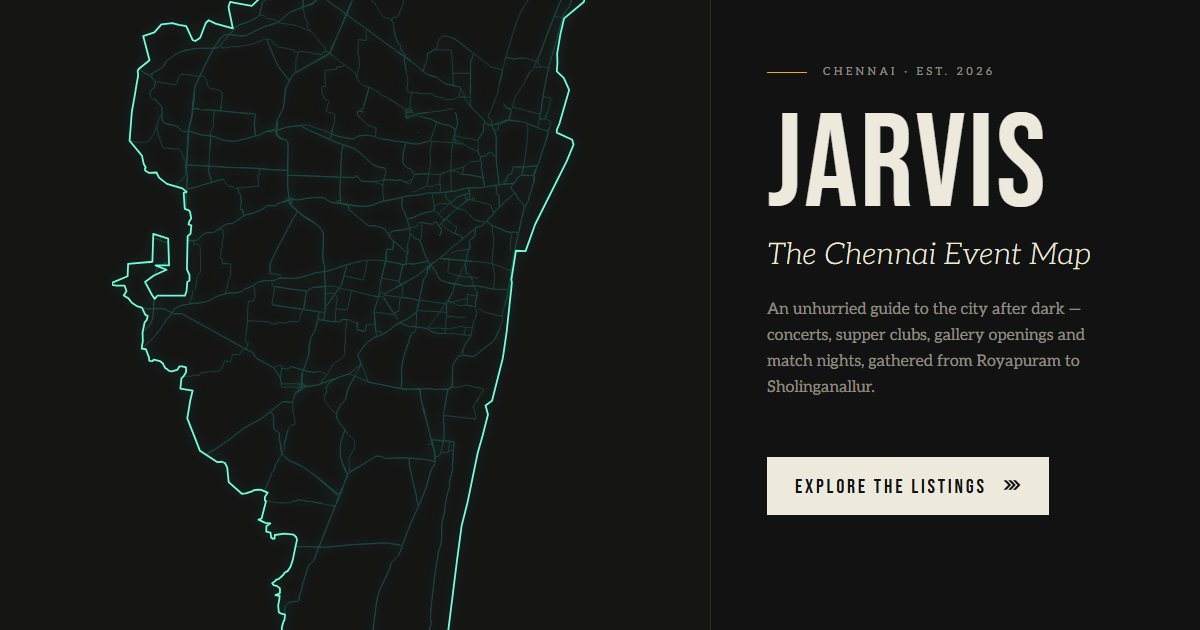
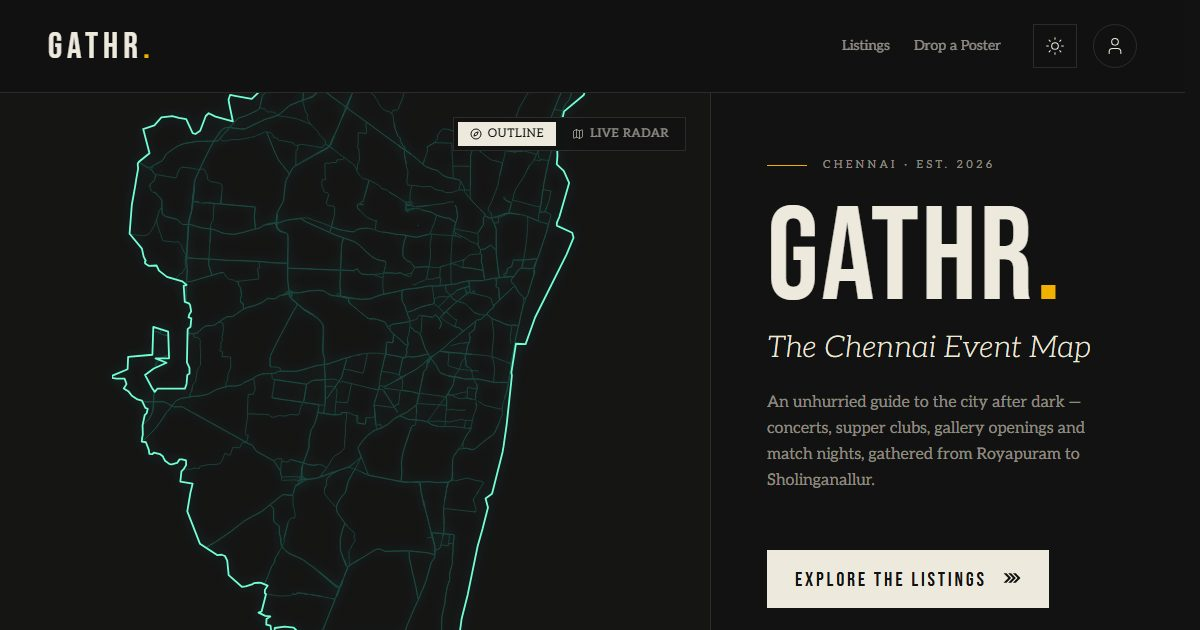
Rename the site from Jarvis to Gathr

diff --git a/frontend/index.html b/frontend/index.html
@@ -10,25 +10,25 @@
 
     <!-- Link previews (WhatsApp, Instagram, X, LinkedIn, Slack) -->
     <meta property="og:type" content="website" />
-    <meta property="og:site_name" content="Jarvis · Chennai Event Map" />
+    <meta property="og:site_name" content="Gathr · Chennai Event Map" />
     <meta property="og:locale" content="en_IN" />
     <meta property="og:url" content="https://chennai-events-map.vercel.app/" />
     <meta property="og:title" content="Chennai Event Map: concerts, workshops & meetups this week" />
     <meta property="og:description" content="Every gig, meetup, workshop and screening in Chennai on one live map. Drop a poster to add yours." />
-    <meta property="og:image" content="https://chennai-events-map.vercel.app/og-image.jpg" />
+    <meta property="og:image" content="https://chennai-events-map.vercel.app/og-image.jpg?v=2" />
     <meta property="og:image:width" content="1200" />
     <meta property="og:image:height" content="630" />
-    <meta property="og:image:alt" content="Map of Chennai with the Jarvis event map title" />
+    <meta property="og:image:alt" content="Map of Chennai with the Gathr event map title" />
     <meta name="twitter:card" content="summary_large_image" />
     <meta name="twitter:title" content="Chennai Event Map: concerts, workshops & meetups this week" />
     <meta name="twitter:description" content="Every gig, meetup, workshop and screening in Chennai on one live map." />
-    <meta name="twitter:image" content="https://chennai-events-map.vercel.app/og-image.jpg" />
+    <meta name="twitter:image" content="https://chennai-events-map.vercel.app/og-image.jpg?v=2" />
 
     <script type="application/ld+json">
       {
         "@context": "https://schema.org",
         "@type": "WebSite",
-        "name": "Jarvis · Chennai Event Map",
+        "name": "Gathr · Chennai Event Map",
         "alternateName": "Chennai Event Map",
         "url": "https://chennai-events-map.vercel.app/",
         "description": "A live map of concerts, workshops, meetups and other events in Chennai."
@@ -44,7 +44,7 @@
     <link rel="preconnect" href="https://fonts.googleapis.com" />
     <link rel="preconnect" href="https://fonts.gstatic.com" crossorigin />
     <link href="https://fonts.googleapis.com/css2?family=Aleo:ital,wght@0,300..700;1,300..700&family=Bebas+Neue&display=swap" rel="stylesheet">
-    <title>Chennai Event Map: concerts, workshops & meetups | Jarvis</title>
+    <title>Chennai Event Map: concerts, workshops & meetups | Gathr</title>
   </head>
   <body>
     <div id="root"></div>

diff --git a/frontend/src/components/GlobalHeader.jsx b/frontend/src/components/GlobalHeader.jsx
@@ -10,13 +10,13 @@ export default function GlobalHeader({ theme, onToggleTheme }) {
     <header className="sticky top-0 z-40 border-b border-line bg-ivory/90 backdrop-blur-md transition-colors duration-200 dark:bg-ink/90">
       <nav className="mx-auto flex w-full items-center justify-between px-4 py-3 sm:px-6 sm:py-6 lg:px-12 xl:px-16 2xl:px-24">
         {isLanding ? (
-          <span className="pt-1 font-display text-3xl sm:text-4xl leading-none tracking-[0.14em]">JARVIS</span>
+          <span className="pt-1 font-display text-3xl sm:text-4xl leading-none tracking-[0.14em]">GATHR<span className="text-yellow-600 dark:text-yellow-500">.</span></span>
         ) : (
           <Link
             to="/"
             className="pt-1 font-display text-3xl sm:text-4xl leading-none tracking-[0.14em] cursor-pointer hover:text-teal-700 dark:hover:text-teal-400 transition-colors"
           >
-            JARVIS
+            GATHR<span className="text-yellow-600 dark:text-yellow-500">.</span>
           </Link>
         )}
 

diff --git a/frontend/src/lib/seo.js b/frontend/src/lib/seo.js
@@ -4,8 +4,8 @@ import { useEffect } from 'react';
 // JavaScript, so tags set here are what it indexes. (WhatsApp and other link
 // previews don't, so they always get the defaults in index.html.)
 export const SITE_URL = 'https://chennai-events-map.vercel.app';
-export const SITE_NAME = 'Jarvis';
-export const DEFAULT_TITLE = 'Chennai Event Map: concerts, workshops & meetups | Jarvis';
+export const SITE_NAME = 'Gathr';
+export const DEFAULT_TITLE = 'Chennai Event Map: concerts, workshops & meetups | Gathr';
 export const DEFAULT_DESCRIPTION =
   "Find what's on in Chennai this week: concerts, gigs, tech meetups, workshops, college culturals and screenings, all on one live map. Free to browse, and anyone can add an event by dropping its poster.";
 

diff --git a/frontend/src/views/SubmitPosterView.jsx b/frontend/src/views/SubmitPosterView.jsx
@@ -186,7 +186,7 @@ export default function SubmitPosterView() {
           Drop a Poster
         </h1>
         <p className="mt-4 max-w-2xl text-lg italic text-muted">
-          Just drop the poster, that's all we need. Jarvis reads the date, venue and the rest off it, and once a quick review is done it's pinned on the Chennai map.
+          Just drop the poster, that's all we need. Gathr reads the date, venue and the rest off it, and once a quick review is done it's pinned on the Chennai map.
         </p>
 
         <div className="mt-14 grid grid-cols-1 gap-12 lg:grid-cols-12">

diff --git a/frontend/src/views/LandingView.jsx b/frontend/src/views/LandingView.jsx
@@ -129,7 +129,7 @@ export default function LandingView({ theme, onToggleTheme }) {
             variants={item}
             className="mt-5 font-display text-[clamp(4.5rem,11vw,11rem)] sm:mt-8 leading-[0.82] tracking-[0.02em]"
           >
-            JARVIS
+            GATHR<span className="text-yellow-600 dark:text-yellow-500">.</span>
           </motion.h1>
 
           <motion.p variants={item} className="mt-4 text-2xl font-light italic sm:text-3xl">

diff --git a/frontend/src/views/AdminView.jsx b/frontend/src/views/AdminView.jsx
@@ -593,7 +593,7 @@ export default function AdminView({ theme }) {
     meta.content = 'noindex, nofollow';
     document.head.appendChild(meta);
     const previousTitle = document.title;
-    document.title = 'Review desk | Jarvis';
+    document.title = 'Review desk | Gathr';
     return () => {
       meta.remove();
       document.title = previousTitle;

diff --git a/backend/main.py b/backend/main.py
@@ -29,7 +29,7 @@ from backend.posters import MAX_POSTER_BYTES, InvalidPoster, inspect_poster
 from backend.ratelimit import client_ip, enforce, limiter
 
 app = FastAPI(
-    title="Jarvis Chennai Event Map API",
+    title="Gathr Chennai Event Map API",
     description="Poster extraction, event submissions, reports and review for the Chennai Event Map.",
     version="2.1.0",
 )
